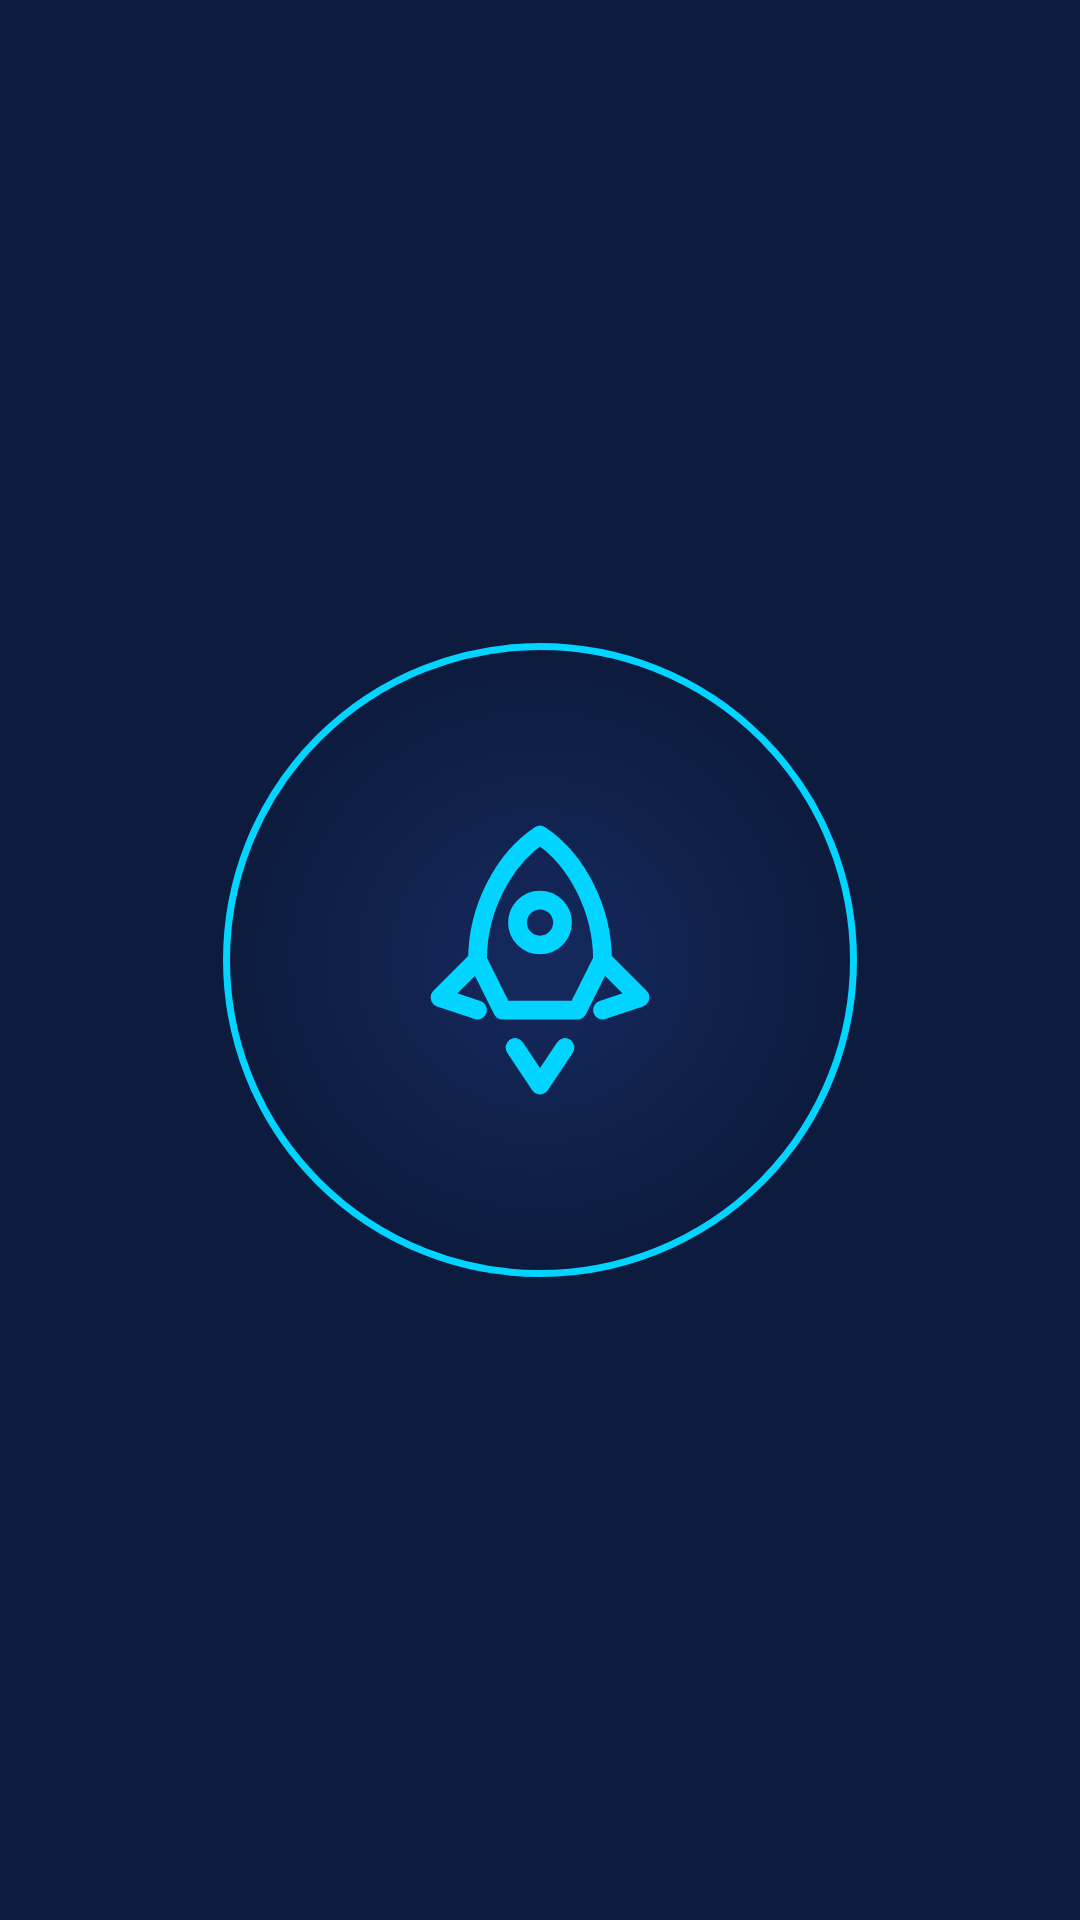
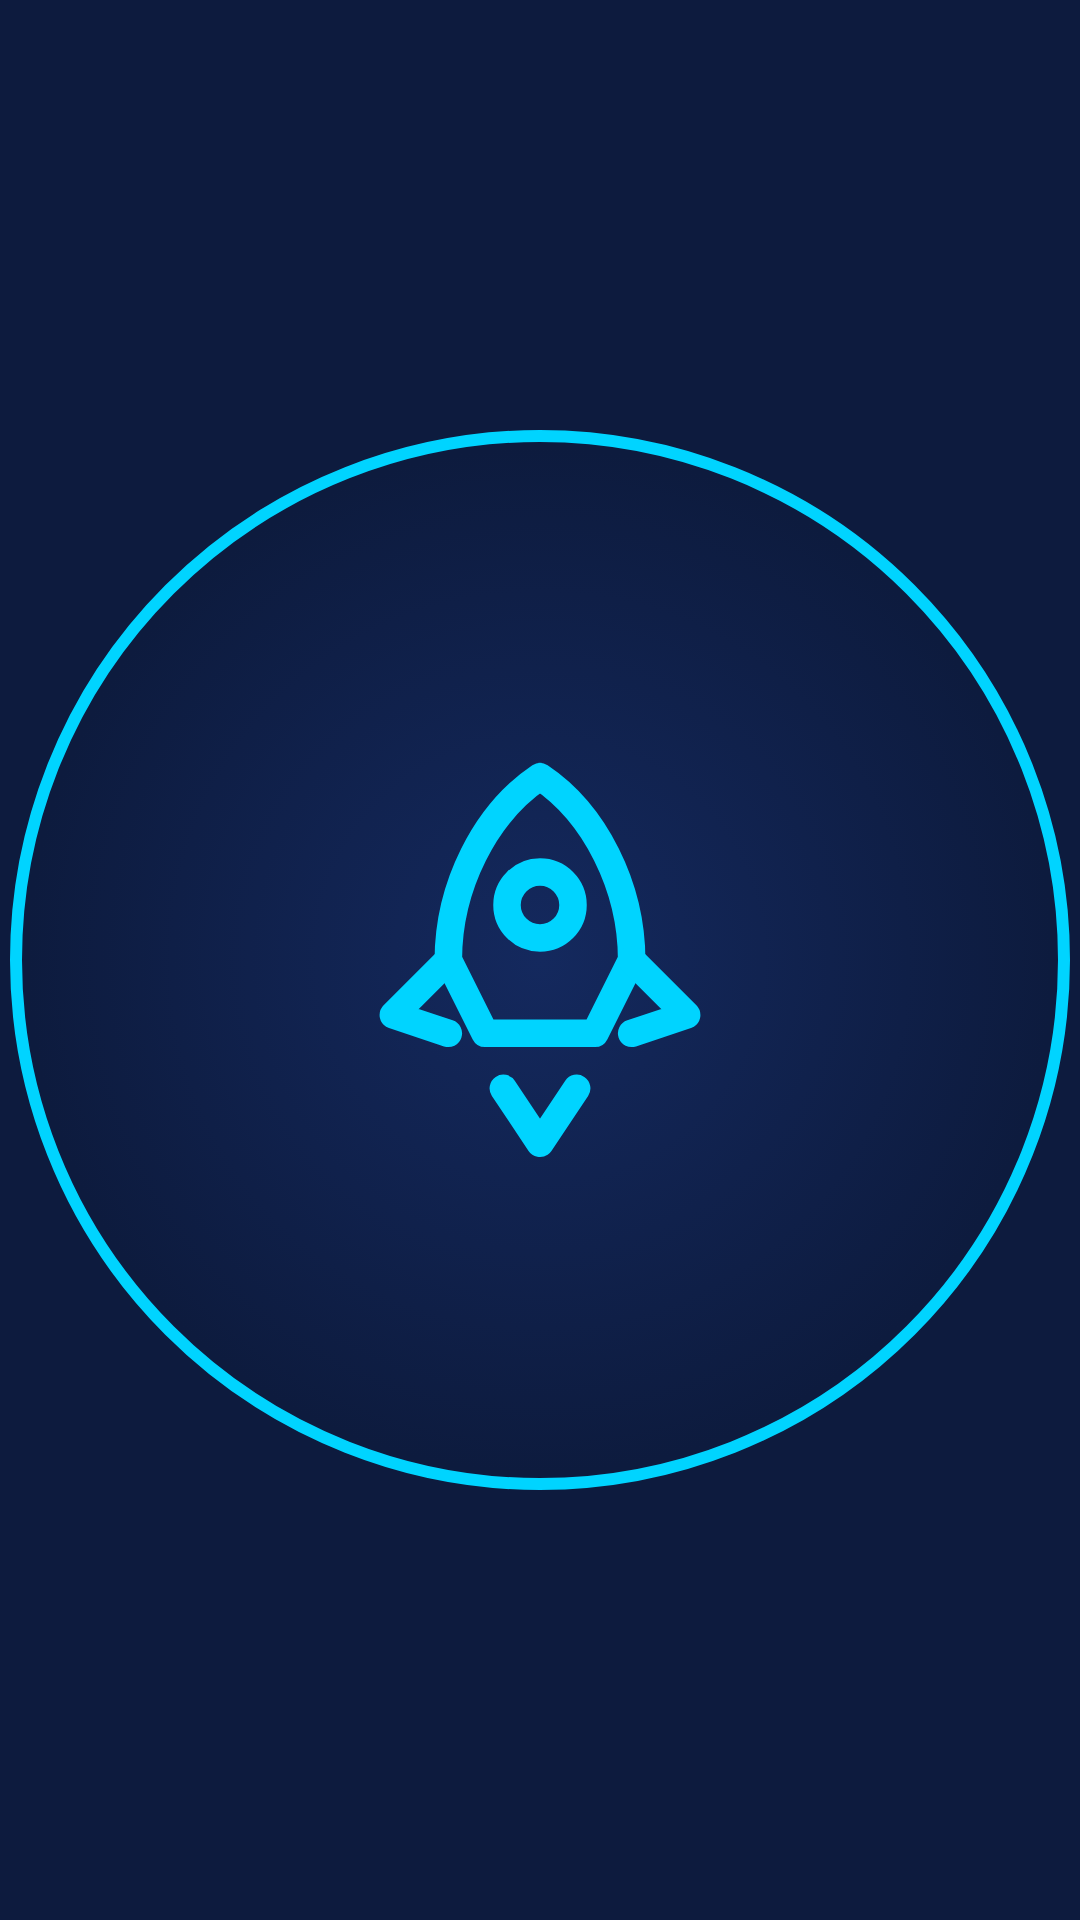
Highlight-covers vullen de cirkel; status bio
Claude-Session: https://claude.ai/code/session_01QkSWZzWLTduRQtPp2zathG

diff --git a/instagram/highlights/build.js b/instagram/highlights/build.js
@@ -6,8 +6,8 @@ const ic = {
  flaxx: '<ellipse cx="14" cy="9" rx="6" ry="6.5" transform="rotate(35 14 9)"/><path d="M9.6 13.6L4 20.5"/><circle cx="12.5" cy="7.5" r=".6"/><circle cx="15.5" cy="8.5" r=".6"/><circle cx="13.5" cy="10.8" r=".6"/>'
 };
 const page = s => `<body style="margin:0;width:1080px;height:1920px;background:#0d1b3e;display:flex;align-items:center;justify-content:center">
-<div style="width:620px;height:620px;border-radius:50%;background:radial-gradient(circle,#14295e,#0d1b3e 70%);border:7px solid #00d4ff;display:flex;align-items:center;justify-content:center">
-<svg viewBox="0 0 24 24" width="300" height="300" fill="none" stroke="#00d4ff" stroke-width="1.5" stroke-linecap="round" stroke-linejoin="round">${s}</svg></div></body>`;
+<div style="box-sizing:border-box;width:1060px;height:1060px;border-radius:50%;background:radial-gradient(circle,#14295e,#0d1b3e 70%);border:12px solid #00d4ff;display:flex;align-items:center;justify-content:center">
+<svg viewBox="0 0 24 24" width="440" height="440" fill="none" stroke="#00d4ff" stroke-width="1.5" stroke-linecap="round" stroke-linejoin="round">${s}</svg></div></body>`;
 (async()=>{const b=await chromium.launch();const p=await b.newPage({viewport:{width:1080,height:1920}});
 for(const k of Object.keys(ic)){await p.setContent(page(ic[k]));await p.screenshot({path:`${__dirname}/highlight-${k}.png`});}
 await b.close();})();

diff --git a/instagram/plan.md b/instagram/plan.md
@@ -241,3 +241,5 @@ Bijgestuurd:
 **Ma 23/11 18u:** ✅ carrousel CLUBCHECK online (nieuwe cover A, caption met slot "Geen tijd? Wij doen het voor je"). Stats na 24u en 7d.
 
 **Status di 24/11 (ochtend):** carrousel CLUBCHECK online ma 18u. Stats: proefles 1.102 (2x gem., 27 profielbezoeken → 1 volger), proefreel A 327 (niet gedeeld op privé). Vandaag: reel december 18u (inplannen vóór 17u als nog niet gebeurd), uitslagen do 18u, bio + highlight FLAXX, split-screen v6 akkoord, padelbeelden op training. Ondernemingsnummer open sinds 19/11 → dag laten kiezen. Wo 25/11: proef nieuwe werking (3 zaken in Lokeren binnenlopen). Do 26/11: laatste opvolging ronde 3. Claude: reel 5 fouten (do 3/12) en shotlist Michelle (1/12).
+
+**Di 24/11 14u:** ✅ bio vernieuwd (5 regels: voor wie, resultaat, wij doen het, FLAXX + Jan Stilten, DM ANALYSE) + highlights Kickstart, FLAXX, Jan Stilten. Nog: naamveld, vastgezette posts, notitie profielfoto.
